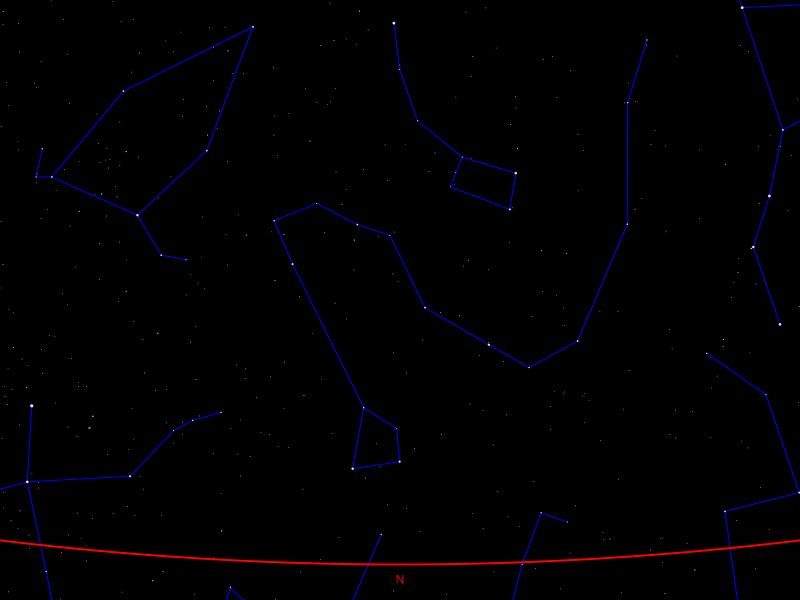
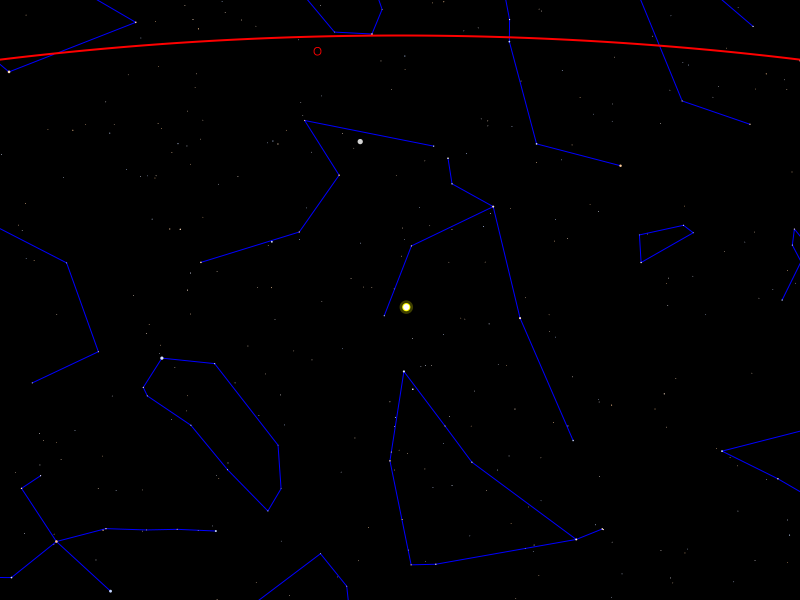
halo Soleil

diff --git a/src/ch/epfl/rigel/gui/DrawSky.java b/src/ch/epfl/rigel/gui/DrawSky.java
@@ -1,7 +1,6 @@
 package ch.epfl.rigel.gui;
 
 import ch.epfl.rigel.astronomy.*;
-import ch.epfl.rigel.coordinates.CardinalPoint;
 import ch.epfl.rigel.coordinates.GeographicCoordinates;
 import ch.epfl.rigel.coordinates.HorizontalCoordinates;
 import ch.epfl.rigel.coordinates.StereographicProjection;
@@ -39,7 +38,7 @@ public final class DrawSky extends Application {
 
             ZonedDateTime when = ZonedDateTime.parse("2020-02-17T20:15:00+01:00");
             GeographicCoordinates where = GeographicCoordinates.ofDeg(6.57, 46.52);
-            HorizontalCoordinates projCenter = HorizontalCoordinates.ofDeg(0, 23);
+            HorizontalCoordinates projCenter = HorizontalCoordinates.ofDeg(277, -23);
             StereographicProjection projection = new StereographicProjection(projCenter);
             ObservedSky sky = new ObservedSky(when, where, projection, catalogue);
 

diff --git a/src/ch/epfl/rigel/gui/SkyCanvasPainter.java b/src/ch/epfl/rigel/gui/SkyCanvasPainter.java
@@ -127,7 +127,7 @@ public final class SkyCanvasPainter {
         double sunCanvasDiameter = PlaneToCanvas.applyToDistance(sunDiameter, planeToCanvas);
 
         // Draws the three concentric discs composing the image of the Sun, from the largest to the smallest
-        drawFilledCircle(sunCanvasPosition, sunCanvasDiameter * 2.2, Color.YELLOW.deriveColor(0, 0, 0, 0.25));
+        drawFilledCircle(sunCanvasPosition, sunCanvasDiameter * 2.2, Color.YELLOW.deriveColor(1, 1, 1, 0.25));
         drawFilledCircle(sunCanvasPosition, sunCanvasDiameter + 2.0, Color.YELLOW);
         drawFilledCircle(sunCanvasPosition, sunCanvasDiameter, Color.WHITE);
     }
